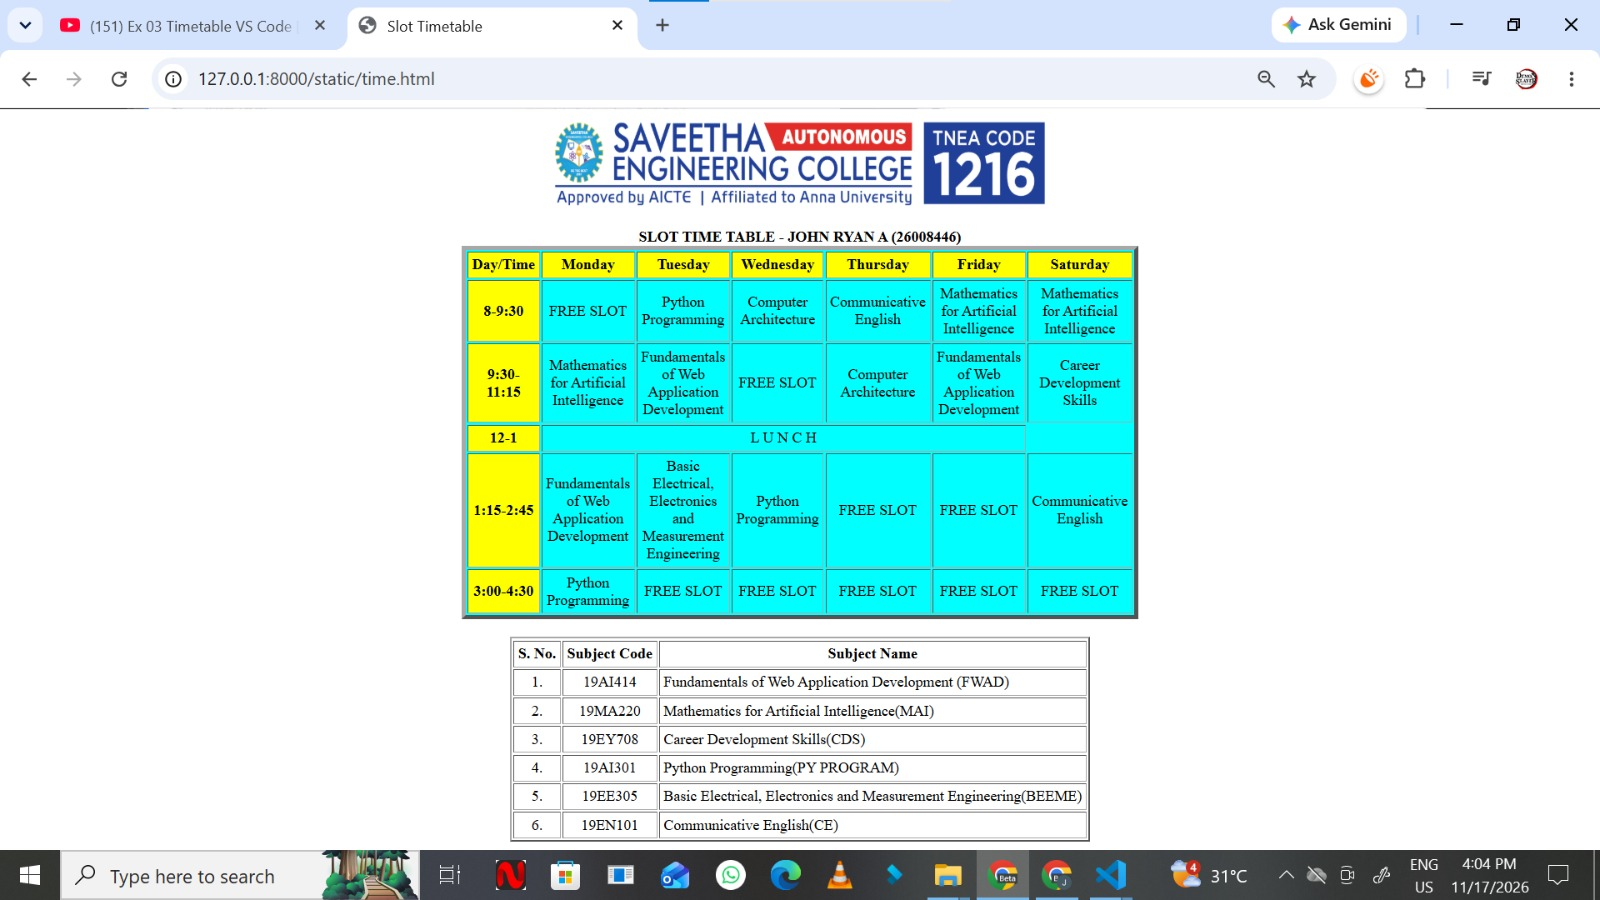
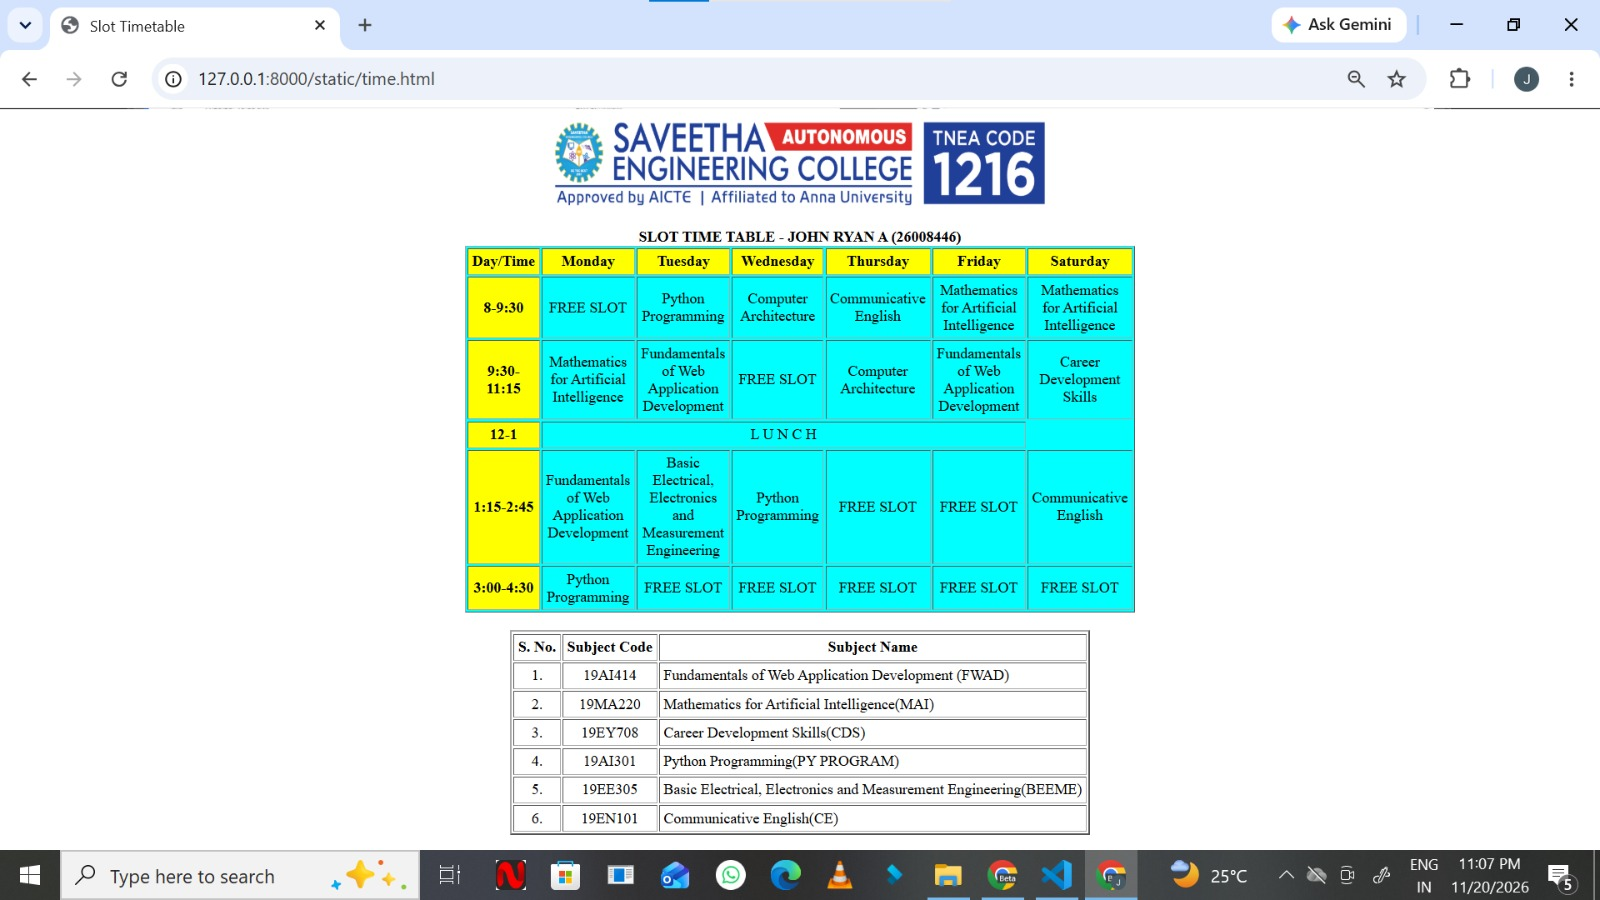
Success

diff --git a/ryan/slotapp/static/time.html b/ryan/slotapp/static/time.html
@@ -9,7 +9,7 @@
 </center>
 <br>
 
-<table align="center" width="540" cellspacing="2" cellpadding="4" border="5" bgcolor="cyan">
+<table border="1" align="center" cellpadding="4"  width="540"   bgcolor="cyan">
 
 <caption><b>SLOT TIME TABLE - JOHN RYAN A (26008446)</b></caption>
 
@@ -72,7 +72,7 @@
 
 <br>
 
-<table align="center" cellspacing="2" cellpadding="4" border="2">
+<table border="2" align="center" cellspacing="2" cellpadding="4" >
 
 <tr align="center">
 <th>S. No.</th>

diff --git a/README.md b/README.md
@@ -28,6 +28,7 @@ Execute the program using runserver command.
 
 ## PROGRAM
 ```
+
 <html>
 <head>
 <title>Slot Timetable</title>
@@ -38,7 +39,7 @@ Execute the program using runserver command.
 </center>
 <br>
 
-<table align="center" width="540" cellspacing="2" cellpadding="4" border="5" bgcolor="cyan">
+<table border="1" align="center" cellpadding="4"  width="540"   bgcolor="cyan">
 
 <caption><b>SLOT TIME TABLE - JOHN RYAN A (26008446)</b></caption>
 
@@ -101,7 +102,7 @@ Execute the program using runserver command.
 
 <br>
 
-<table align="center" cellspacing="2" cellpadding="4" border="2">
+<table border="2" align="center" cellspacing="2" cellpadding="4" >
 
 <tr align="center">
 <th>S. No.</th>
@@ -149,8 +150,11 @@ Execute the program using runserver command.
 
 </body>
 </html>
+
+
+
 ```
 ## OUTPUT
-![text](screenshot.jpeg)
+![alt text](screenshot.jpeg)
 ## RESULT
 The program for creating slot timetable using basic HTML tags is executed successfully.
